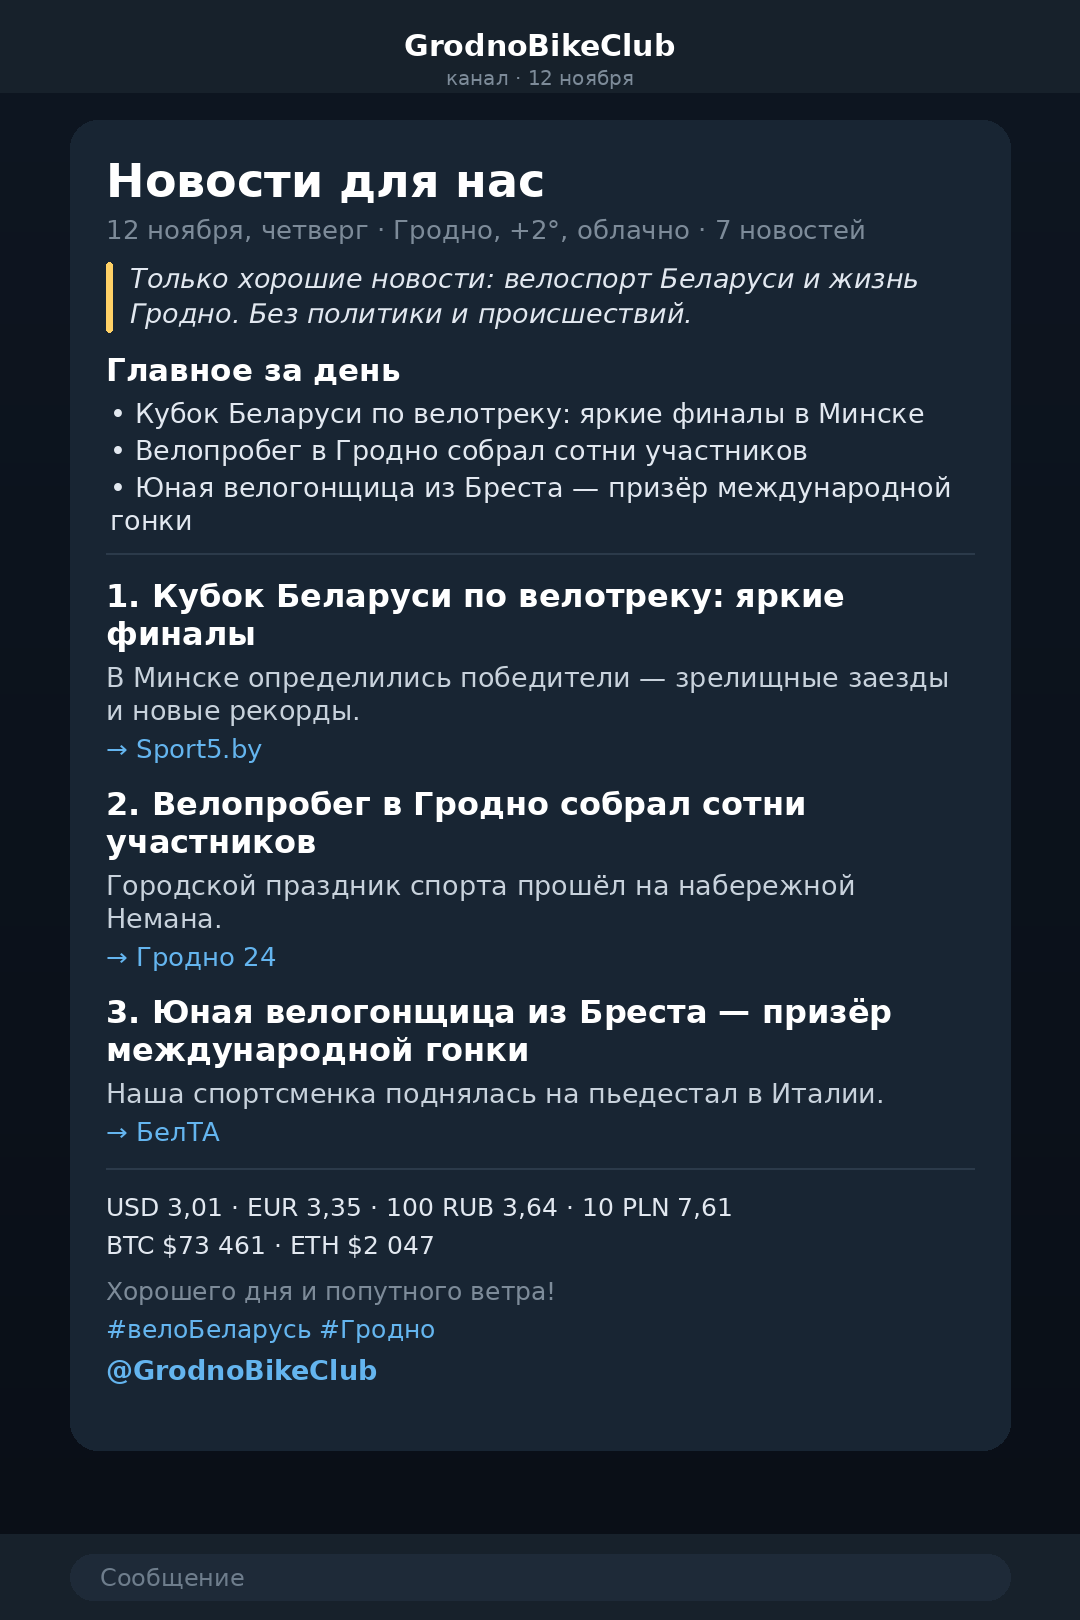
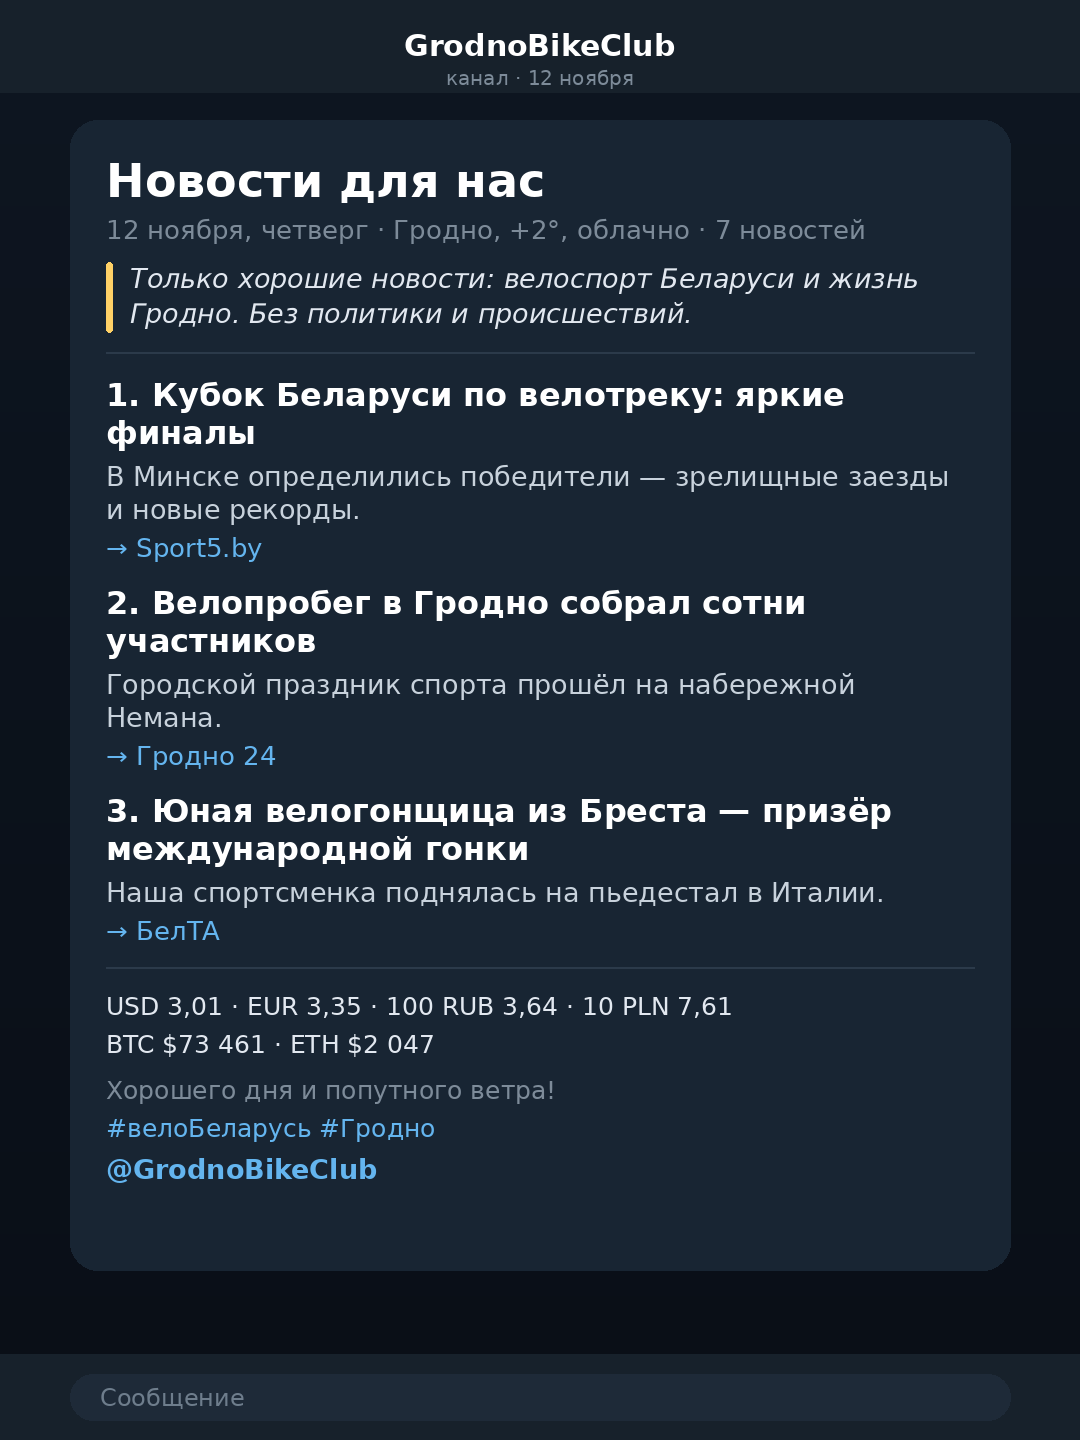
feat: remove highlights block from digest

Changed region(s): [[0.0611, 0.0938, 0.9472, 0.9062], [0.3667, 0.0, 0.6111, 0.0625], [0.0917, 0.9688, 0.2139, 1.0]]

diff --git a/main.py b/main.py
@@ -336,9 +336,8 @@ def weather_text(weather):
     return f"Гродно, {weather['temp']:+d}°, {weather['desc']}"
 
 
-def render(now, intro, entries, outro, highlights=None, rates=None, weather=None):
+def render(now, intro, entries, outro, rates=None, weather=None):
     day = now.astimezone(TZ)
-    highlights = highlights or []
     wl = weather_text(weather)
     head = [
         "🚴 <b>Новости для нас</b>",
@@ -348,11 +347,6 @@ def render(now, intro, entries, outro, highlights=None, rates=None, weather=None
         html.escape(intro),
         "",
     ]
-    if highlights:
-        head.append("<b>Главное за день</b>")
-        head += [f"• {html.escape(h)}" for h in highlights]
-        head.append("")
-
     body = []
     for index, entry in enumerate(entries):
         body.append(f"{NUMBERS[index]} <b>{html.escape(entry['title'])}</b>")
@@ -384,10 +378,9 @@ def render(now, intro, entries, outro, highlights=None, rates=None, weather=None
     return text
 
 
-def render_rich(now, intro, entries, outro, highlights=None, rates=None, weather=None):
+def render_rich(now, intro, entries, outro, rates=None, weather=None):
     """Красивый пост в формате rich message (Bot API 10.x)."""
     day = now.astimezone(TZ)
-    highlights = highlights or []
     wl = weather_text(weather)
     subtitle = f"{day.day} {MONTHS[day.month - 1]}, {WEEKDAYS[day.weekday()]}"
     if wl:
@@ -399,10 +392,6 @@ def render_rich(now, intro, entries, outro, highlights=None, rates=None, weather
         f"<p>{html.escape(subtitle)}</p>",
         f"<blockquote>{html.escape(intro)}</blockquote>",
     ]
-    if highlights:
-        parts.append("<h3>Главное за день</h3>")
-        parts.append("<ul>" + "".join(f"<li>{html.escape(h)}</li>" for h in highlights) + "</ul>")
-
     parts.append("<hr/>")
     for index, entry in enumerate(entries, 1):
         emoji = item_emoji(f"{entry.get('title', '')} {entry.get('summary', '')}")
@@ -500,10 +489,9 @@ def build_prompt(items, now):
 4. Каждую новость перепиши своими словами: короткий заголовок (до 70 символов) и 1–2 предложения (до 220 символов). Тон — бодрый, доброжелательный, без канцелярита и без воды.
 5. Не добавляй ссылки и не придумывай источники.
 6. intro — одно предложение-приветствие (до 140 символов). outro — одна короткая позитивная фраза (до 100 символов).
-7. highlights — 2–3 очень короткие фразы «главного за день» (до 90 символов каждая), только факты из новостей.
-8. Не включай две новости об одном и том же событии.
-9. Верни СТРОГО валидный JSON без markdown и пояснений:
-{{"intro": "...", "highlights": ["...", "..."], "items": [{{"id": 1, "title": "...", "summary": "..."}}], "outro": "..."}}
+7. Не включай две новости об одном и том же событии.
+8. Верни СТРОГО валидный JSON без markdown и пояснений:
+{{"intro": "...", "items": [{{"id": 1, "title": "...", "summary": "..."}}], "outro": "..."}}
 Используй только id из списка выше."""
 
     return system, user
@@ -637,17 +625,7 @@ def ai_message(items, now):
         intro = INTROS[now.weekday() % len(INTROS)]
         outro = "🌿 Хорошего дня и попутного ветра!"
 
-    highlights = []
-    for item in data.get("highlights") or []:
-        if not isinstance(item, str):
-            continue
-        text = short(item, 110)
-        if text and not any(word in text.lower() for word in CFG["negative_keywords"]):
-            highlights.append(text)
-        if len(highlights) >= 3:
-            break
-
-    return picked, picked_src, intro, outro, highlights
+    return picked, picked_src, intro, outro
 
 
 # --------------------------------------------------------------------- Telegram
@@ -783,11 +761,11 @@ def main():
     if rates:
         log(f"[rates] валют: {len(rates.get('fiat', []))}, крипто: {len(rates.get('crypto', []))}")
 
-    entries, used, intro, outro, highlights, mode = None, [], "", "", [], "simple"
+    entries, used, intro, outro, mode = None, [], "", "", "simple"
     if ai_ready and items:
         try:
             log(f"[ai] модель: {ai_settings()['model']}")
-            entries, used, intro, outro, highlights = ai_message(items, now)
+            entries, used, intro, outro = ai_message(items, now)
             mode = "ai"
         except Exception as exc:  # noqa: BLE001
             log(f"[ai] ошибка, переключаюсь на простой режим: {type(exc).__name__}: {exc}")
@@ -796,11 +774,10 @@ def main():
 
     if entries is None:
         entries, used, intro, outro = simple_message(items, now)
-        highlights = []
         mode = "simple"
 
-    classic = render(now, intro, entries, outro, highlights, rates, weather)
-    rich = render_rich(now, intro, entries, outro, highlights, rates, weather)
+    classic = render(now, intro, entries, outro, rates, weather)
+    rich = render_rich(now, intro, entries, outro, rates, weather)
 
     log(f"[digest] режим: {mode}, новостей: {len(entries)}, "
         f"rich: {len(rich)} симв., classic: {len(classic)} симв.")

diff --git a/scripts/mockup.py b/scripts/mockup.py
@@ -7,7 +7,7 @@ from datetime import datetime, timezone
 
 from PIL import Image, ImageDraw, ImageFont  # noqa: E402
 
-W, H = 1080, 1620
+W, H = 1080, 1440
 BG_TOP, BG_BOTTOM = (14, 22, 33), (10, 15, 23)
 BUBBLE = (24, 37, 51)
 TEXT = (255, 255, 255)
@@ -61,7 +61,7 @@ def main():
     d.text((W // 2, 78), "канал · 12 ноября", font=font(20), fill=MUTED, anchor="mm")
 
     bx, by, bw = 70, 120, 940
-    bubble_h = 1330
+    bubble_h = 1150
     d.rounded_rectangle([bx, by, bx + bw, by + bubble_h], radius=28, fill=BUBBLE)
 
     x = bx + 36
@@ -82,13 +82,6 @@ def main():
         d.text((x + 24, qy), line, font=qf, fill=(226, 232, 240))
         qy += qf.size + 8
     y = qy + 20
-
-    y = text_block(d, "Главное за день", font(31, "b"), TEXT, x, y, max_w, gap=4, after=10)
-    for bullet in ("Кубок Беларуси по велотреку: яркие финалы в Минске",
-                   "Велопробег в Гродно собрал сотни участников",
-                   "Юная велогонщица из Бреста — призёр международной гонки"):
-        y = text_block(d, "•  " + bullet, font(27), (226, 232, 240), x + 4, y, max_w - 8, gap=6, after=4)
-    y += 12
 
     d.line([x, y, x + max_w, y], fill=LINE, width=2)
     y += 24

diff --git a/README.md b/README.md
@@ -19,8 +19,8 @@ Telegram-канал или группу.
 
 ## Возможности
 
-- 🤖 **ИИ-редактор** — отбирает новости, пишет «Главное за день» и переписывает
-  тексты в позитивном тоне (Gemini, любая OpenAI-совместимая модель).
+- 🤖 **ИИ-редактор** — отбирает новости и переписывает тексты в позитивном тоне
+  (Gemini, любая OpenAI-совместимая модель).
 - 🚫 **Без негатива** — двойной фильтр: стоп-слова + инструкция модели.
 - 🌤 **Погода в тексте** — Гродно, температура и описание в подзаголовке.
 - 🔗 **Ссылка на канал** — `@GrodnoBikeClub` внизу каждого поста.
@@ -40,8 +40,8 @@ RSS (Google News + GrodnoNews)   Open-Meteo (погода)   НБРБ + CoinGeck
 Фильтр негатива (политика, ДТП, криминал)         │
         │                                         ▼
         ▼                                 Погода в подзаголовке,
-ИИ-модель: отбирает новости и пишет       курсы внизу поста
-«Главное за день», переписывает позитивно
+ИИ-модель: отбирает новости и переписывает   курсы внизу поста
+их позитивно, коротко и по делу
         │
         ▼
 Rich message: заголовок, цитата, список, ссылка на канал
@@ -91,8 +91,6 @@ Telegram: ежедневно в 12:00 по Минску
   включите флаг — и бот снова будет присылать картинку с датой и погодой.
 - Если какой-то источник недоступен — соответствующий блок просто не
   появляется, выпуск всё равно выходит.
-- «Главное за день» — 2–3 короткие фразы, которые пишет ИИ. Без ключа ИИ блок
-  скрывается, чтобы не дублировать заголовки.
 
 Пример, как это выглядит в Telegram: `mockup.png` (приблизительный макет).
 
